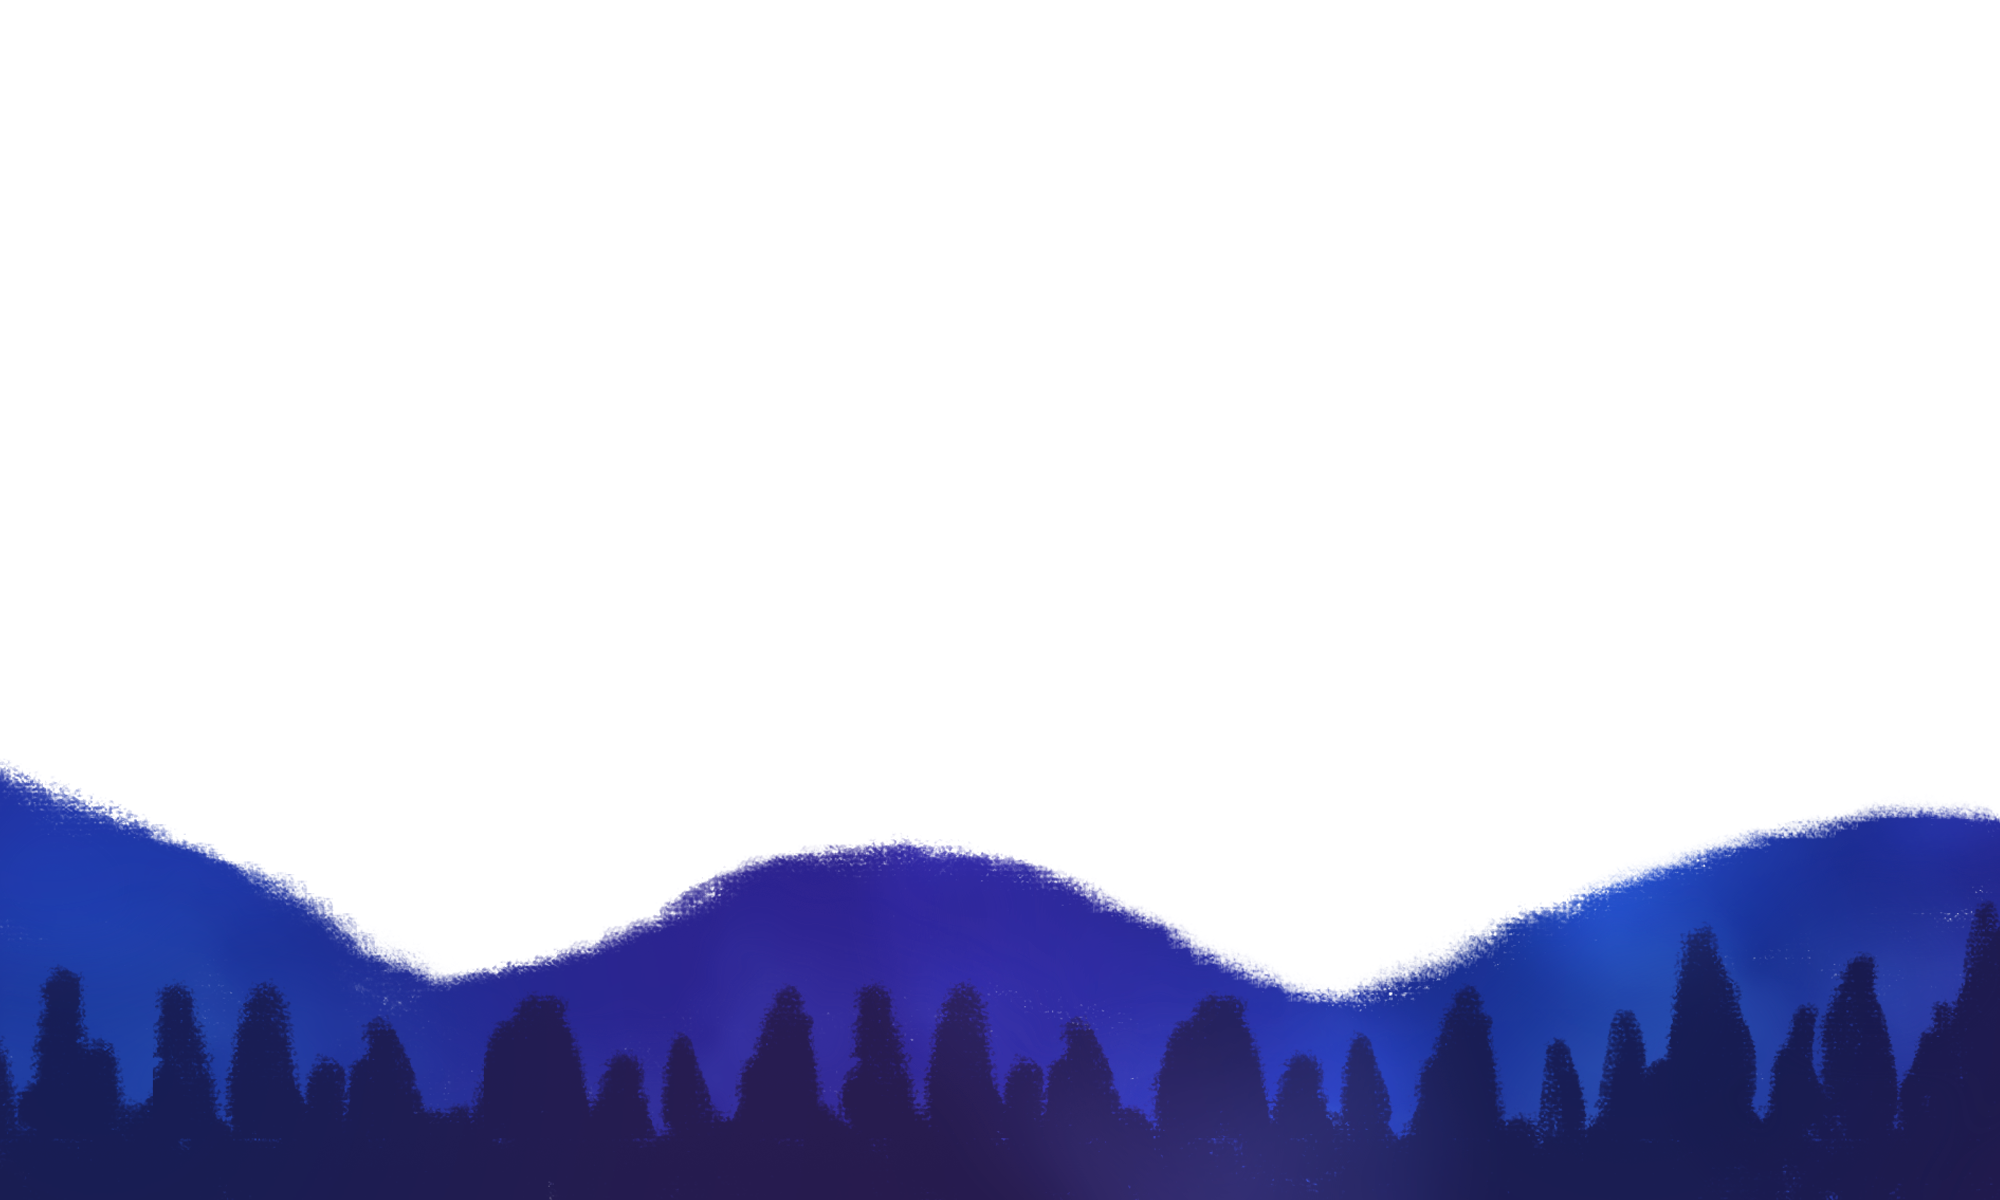
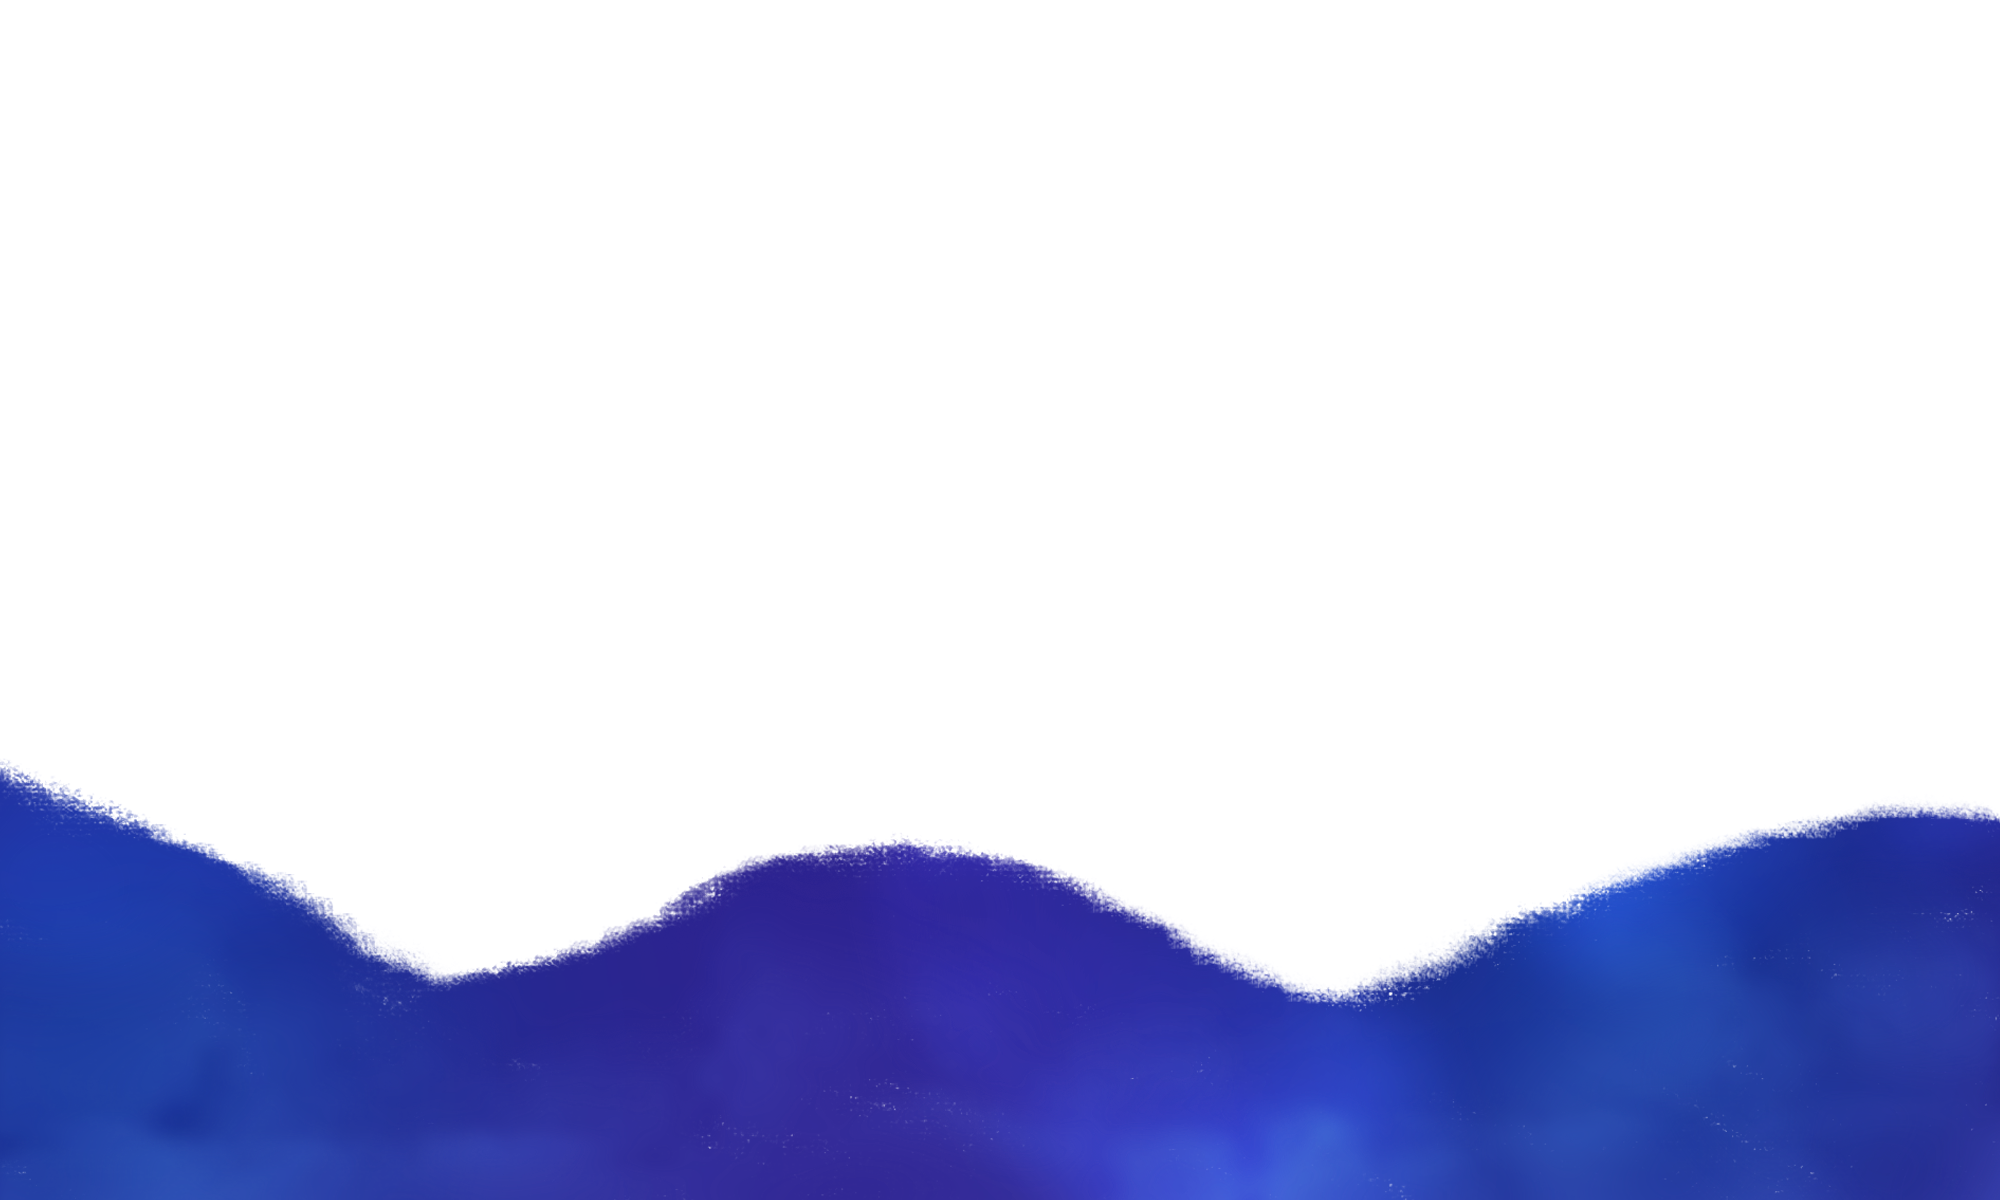
1

Changed region(s): [[0.0, 0.74, 1.0, 1.0]]

diff --git a/sky_manager.js b/sky_manager.js
@@ -10,22 +10,23 @@ const SkyManager = {
     worldWidth: 2000,
     worldHeight: 1200,
     gridSize: 32,
-    resolutionScale: 1.0, 
-    viewScale: 0.5,       
+    resolutionScale: 1.0,
+    viewScale: 0.5,
 
     useShadow: true,
-    
+
     // 内部変数
     canvas: null,
     ctx: null,
     stampsImage: new Image(),
     bgImage: new Image(),
     mountainImage: new Image(),
+    woodsImage: new Image(),
     charImage: new Image(),
     isLoaded: false,
 
     // データ保存用
-    starDataList: [], 
+    starDataList: [],
     pendingLoadData: null,
 
     // ほしを見るモード用
@@ -49,15 +50,17 @@ const SkyManager = {
         }
 
         let loadedCount = 0;
-        const totalImages = 4;
+        const totalImages = 5;
 
         const checkLoad = () => {
+            if (this.isLoaded) return; // 二重実行防止
+
             loadedCount++;
             if (loadedCount >= totalImages) {
                 console.log("SkyManager: Images Loaded.");
                 this.isLoaded = true;
                 this.initBackground();
-                
+
                 // ロード待ちデータがあれば復元
                 if (this.pendingLoadData) {
                     console.log("SkyManager: Found pending data, restoring...");
@@ -78,6 +81,10 @@ const SkyManager = {
         this.mountainImage.src = 'image/bg_mountain.png';
         this.mountainImage.onload = checkLoad;
         this.mountainImage.onerror = () => { console.warn("no mountain image"); checkLoad(); };
+
+        this.woodsImage.src = 'image/bg_Woods.png';
+        this.woodsImage.onload = checkLoad;
+        this.woodsImage.onerror = () => { console.warn("no woods image"); checkLoad(); };
 
         this.charImage.src = 'image/maimai_watching.png';
         this.charImage.onload = checkLoad;
@@ -103,7 +110,7 @@ const SkyManager = {
     },
 
     // --- データ保存・読み込み ---
-    getStarData: function() {
+    getStarData: function () {
         // ★修正: 画像ロード待ちのデータがある場合はそれを返す (データ消失防止)
         // これにより、ロード中にセーブが走っても空データで上書きされるのを防ぎます
         if (this.pendingLoadData) {
@@ -113,13 +120,13 @@ const SkyManager = {
         return this.starDataList;
     },
 
-    setStarData: function(dataList) {
+    setStarData: function (dataList) {
         if (!dataList || !Array.isArray(dataList)) {
             console.warn("SkyManager: Invalid data set.");
             return;
         }
         console.log(`SkyManager: Received ${dataList.length} stars.`);
-        
+
         if (this.isLoaded) {
             this.restoreStarData(dataList);
         } else {
@@ -128,10 +135,10 @@ const SkyManager = {
         }
     },
 
-    restoreStarData: function(dataList) {
+    restoreStarData: function (dataList) {
         this.starDataList = dataList; // リストを上書き復元
         this.initBackground(); // キャンバスを一度クリア（背景のみにする）
-        
+
         // 全ての星を再描画
         for (const s of this.starDataList) {
             // 第8引数 false = 履歴には追加しない(二重追加防止)
@@ -145,22 +152,22 @@ const SkyManager = {
         if (!this.isLoaded) return;
 
         let radius = 1;
-        if (sizeLevel === 1) radius = 2; 
-        if (sizeLevel === 2) radius = 4; 
+        if (sizeLevel === 1) radius = 2;
+        if (sizeLevel === 2) radius = 4;
 
         const ctx = this.ctx;
         ctx.save();
         ctx.globalCompositeOperation = 'lighter';
-        
+
         // ステップ1: 基本エリア
         for (let dy = -radius; dy <= radius; dy++) {
             for (let dx = -radius; dx <= radius; dx++) {
                 const dist = Math.sqrt(dx * dx + dy * dy);
                 if (dist > radius + 0.5) continue;
 
-                let densityIndex = 2; 
-                if (dist <= 1.0) densityIndex = 0; 
-                else if (dist <= radius * 0.6) densityIndex = 1; 
+                let densityIndex = 2;
+                if (dist <= 1.0) densityIndex = 0;
+                else if (dist <= radius * 0.6) densityIndex = 1;
 
                 // 密度のダウングレード（確率はそのまま）
                 if (densityIndex === 0 && Math.random() < 0.66) densityIndex = 1;
@@ -187,7 +194,7 @@ const SkyManager = {
         for (let i = 0; i < spikeCount; i++) {
             const angle = Math.random() * Math.PI * 2;
             const spikeLen = radius + 2 + Math.floor(Math.random() * 3);
-            
+
             for (let d = radius + 1; d <= spikeLen; d++) {
                 const ox = Math.round(Math.cos(angle) * d);
                 const oy = Math.round(Math.sin(angle) * d);
@@ -240,11 +247,11 @@ const SkyManager = {
             this.ctx,
             (logicalPx + jitterX) * this.resolutionScale,
             (logicalPy + jitterY) * this.resolutionScale,
-            densityIndex, 
-            stampCol,     
+            densityIndex,
+            stampCol,
             color,
-            scale * this.resolutionScale, 
-            true 
+            scale * this.resolutionScale,
+            true
         );
     },
 
@@ -253,29 +260,29 @@ const SkyManager = {
             // ★修正: 保存データを軽量化
             // 座標は整数に丸める、スケールは小数点第2位までにする
             this.starDataList.push({
-                x: Math.floor(x), 
-                y: Math.floor(y), 
-                row: row, 
-                col: col, 
-                color: color, 
+                x: Math.floor(x),
+                y: Math.floor(y),
+                row: row,
+                col: col,
+                color: color,
                 scale: parseFloat(scale.toFixed(2))
             });
         }
 
-        const sw = 64; 
+        const sw = 64;
         const sh = 64;
         const sx = col * sw;
         const sy = row * sh;
 
-        const baseScale = 0.8; 
+        const baseScale = 0.8;
         const centerOffset = (this.gridSize / 2) * this.resolutionScale;
 
         ctx.save();
         ctx.translate(x + centerOffset, y + centerOffset);
-        
+
         const angle = Math.floor(Math.random() * 4) * (Math.PI / 2);
         ctx.rotate(angle);
-        
+
         const finalScale = scale * baseScale;
 
         if (Math.random() < 0.5) ctx.scale(-finalScale, finalScale);
@@ -285,7 +292,7 @@ const SkyManager = {
 
         if (this.useShadow) {
             ctx.shadowColor = color;
-            ctx.shadowBlur = 15 * this.resolutionScale * 0.8; 
+            ctx.shadowBlur = 15 * this.resolutionScale * 0.8;
         }
 
         ctx.globalAlpha = 1.0;
@@ -296,8 +303,8 @@ const SkyManager = {
 
     // --- モード制御 ---
     startGazing: function () {
-        this.viewScale = 0.6; 
-        
+        this.viewScale = 0.6;
+
         this.isActive = true;
         this.uiAlpha = 1.0;
         this.uiTimer = 0;
@@ -379,7 +386,7 @@ const SkyManager = {
         this.syncHtmlUiOpacity(this.uiAlpha);
     },
 
-    syncHtmlUiOpacity: function(alpha) {
+    syncHtmlUiOpacity: function (alpha) {
         const ids = ['item-counter', 'star-counter', 'hp-counter', 'control-panel'];
         ids.forEach(id => {
             const el = document.getElementById(id);
@@ -390,7 +397,7 @@ const SkyManager = {
         });
     },
 
-    clampCamera: function() {
+    clampCamera: function () {
         const visibleW = 1000 / this.viewScale;
         const visibleH = 600 / this.viewScale;
         const maxX = Math.max(0, this.worldWidth - visibleW);
@@ -404,6 +411,7 @@ const SkyManager = {
         const visibleW = 1000 / this.viewScale;
         const visibleH = 600 / this.viewScale;
 
+        // 1. 夜空と星 (背景)
         if (this.canvas) {
             const sX = this.camera.x * this.resolutionScale;
             const sY = this.camera.y * this.resolutionScale;
@@ -415,10 +423,25 @@ const SkyManager = {
             ctx.fillRect(0, 0, 1000, 600);
         }
 
+        // 2. 山 (中景: 視差スクロール)
         if (this.mountainImage.complete && this.mountainImage.naturalWidth > 0) {
-            ctx.drawImage(this.mountainImage, this.camera.x, this.camera.y, visibleW, visibleH, 0, 0, 1000, 600);
+            // 移動距離を少しだけ短くすることで奥行き(密着マルチ)を表現
+            const parallaxFactor = 0.9;
+            const px = this.camera.x * parallaxFactor;
+            const py = this.camera.y * parallaxFactor;
+            ctx.drawImage(this.mountainImage, px, py, visibleW, visibleH, 0, 0, 1000, 600);
         }
 
+        // 3. 森 (近景: 視差スクロール)
+        if (this.woodsImage.complete && this.woodsImage.naturalWidth > 0) {
+            // 移動倍率を0.7に下げて、動きをさらに抑制
+            const parallaxFactor = 0.7;
+            const px = this.camera.x * parallaxFactor;
+            const py = this.camera.y * parallaxFactor;
+            ctx.drawImage(this.woodsImage, px, py, visibleW, visibleH, 0, 0, 1000, 600);
+        }
+
+        // 4. キャラクター (前面)
         this.drawCharacters(ctx);
 
         if (this.uiAlpha > 0) {
@@ -443,19 +466,19 @@ const SkyManager = {
         if (this.charImage.complete && this.charImage.naturalWidth > 0) {
             const imgW = this.charImage.naturalWidth * 0.5;
             const imgH = this.charImage.naturalHeight * 0.5;
-            const x = 50; 
-            const y = 600 - imgH; 
+            const x = 50;
+            const y = 600 - imgH;
             ctx.drawImage(this.charImage, x, y, imgW, imgH);
         } else {
-            ctx.fillStyle = '#1a237e'; 
+            ctx.fillStyle = '#1a237e';
             ctx.beginPath();
             ctx.ellipse(500, 700, 600, 200, 0, 0, Math.PI * 2);
             ctx.fill();
-            ctx.fillStyle = '#d32f2f'; 
+            ctx.fillStyle = '#d32f2f';
             ctx.beginPath();
             ctx.arc(450, 530, 25, 0, Math.PI * 2);
             ctx.fill();
-            ctx.fillStyle = '#f48fb1'; 
+            ctx.fillStyle = '#f48fb1';
             ctx.beginPath();
             ctx.arc(520, 535, 23, 0, Math.PI * 2);
             ctx.fill();

diff --git a/launch_manager.js b/launch_manager.js
@@ -258,8 +258,23 @@ const LaunchManager = {
 
         if (Input.isJustPressed) {
             const placedItems = this.stockList.filter(it => it.placed);
+
+            // うちあげボタン
             if (placedItems.length > 0 && this.checkBtn(this.ui.btnLaunch)) {
                 this.startAnimation();
+                return;
+            }
+
+            // 1つもどるボタン (配置済みを1つキャンセル)
+            if (placedItems.length > 0 && this.checkBtn(this.ui.btnBack)) {
+                // 最後に配置したものを探す
+                const lastPlaced = [...this.stockList].reverse().find(it => it.placed);
+                if (lastPlaced) {
+                    lastPlaced.placed = false;
+                    lastPlaced.gx = null;
+                    lastPlaced.gy = null;
+                    AudioSys.playTone(400, 'sine', 0.1);
+                }
                 return;
             }
 
@@ -533,6 +548,16 @@ const LaunchManager = {
             );
         }
 
+        if (SkyManager.woodsImage.complete && SkyManager.woodsImage.naturalWidth > 0) {
+            const visibleW = 1000 / SkyManager.viewScale;
+            const visibleH = 600 / SkyManager.viewScale;
+            ctx.drawImage(
+                SkyManager.woodsImage,
+                this.camera.x, this.camera.y, visibleW, visibleH,
+                0, 0, 1000, 600
+            );
+        }
+
         if (this.state === 'select_pos') {
             this.stockList.forEach(it => {
                 if (it.placed) {
@@ -545,11 +570,13 @@ const LaunchManager = {
                     const size = (radius * 2 + 1) * SkyManager.gridSize * SkyManager.viewScale;
                     const offset = radius * SkyManager.gridSize * SkyManager.viewScale;
 
-                    ctx.strokeStyle = "rgba(0, 0, 0, 0.5)";
-                    ctx.lineWidth = 2;
+                    ctx.strokeStyle = it.color;
+                    ctx.lineWidth = 4;
                     ctx.strokeRect(px - offset, py - offset, size, size);
-                    ctx.fillStyle = "rgba(0, 0, 0, 0.3)";
+                    ctx.fillStyle = it.color;
+                    ctx.globalAlpha = 0.3;
                     ctx.fillRect(px - offset, py - offset, size, size);
+                    ctx.globalAlpha = 1.0;
                 }
             });
 
@@ -565,11 +592,13 @@ const LaunchManager = {
                 const size = (radius * 2 + 1) * SkyManager.gridSize * SkyManager.viewScale;
                 const offset = radius * SkyManager.gridSize * SkyManager.viewScale;
 
-                ctx.strokeStyle = "rgba(0, 0, 0, 0.5)";
-                ctx.lineWidth = 2;
+                ctx.strokeStyle = nextItem.color;
+                ctx.lineWidth = 4;
                 ctx.strokeRect(sx - offset, sy - offset, size, size);
-                ctx.fillStyle = 'rgba(0, 0, 0, 0.3)';
+                ctx.fillStyle = nextItem.color;
+                ctx.globalAlpha = 0.3;
                 ctx.fillRect(sx - offset, sy - offset, size, size);
+                ctx.globalAlpha = 1.0;
 
                 this.drawSpeechBubble(ctx, "どこにうちあげよう？");
             } else {
@@ -578,6 +607,7 @@ const LaunchManager = {
 
             if (this.stockList.some(it => it.placed)) {
                 this.drawBtn(ctx, this.ui.btnLaunch, '#4ecdc4');
+                this.drawBtn(ctx, this.ui.btnBack, '#ffaa00');
             }
         }
 
